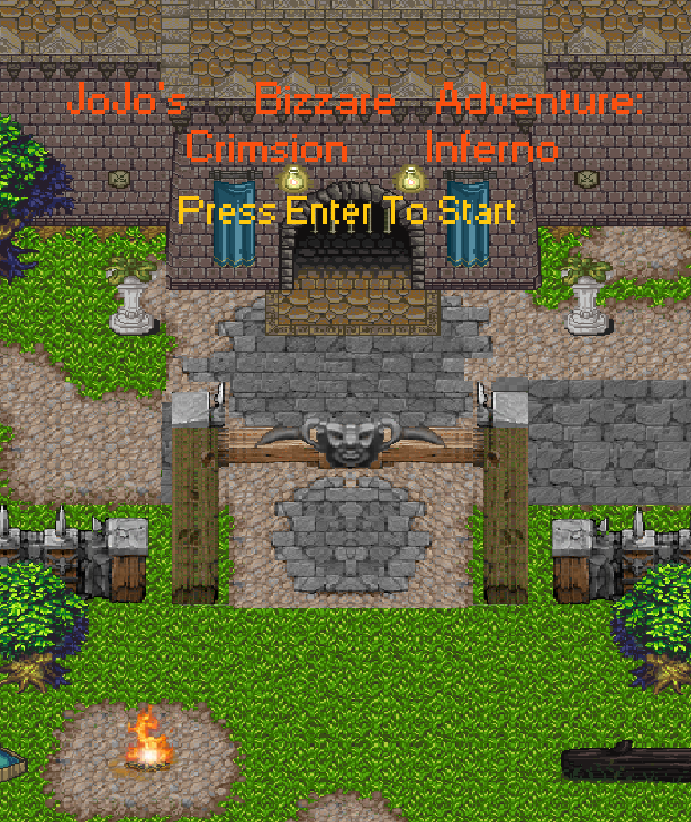
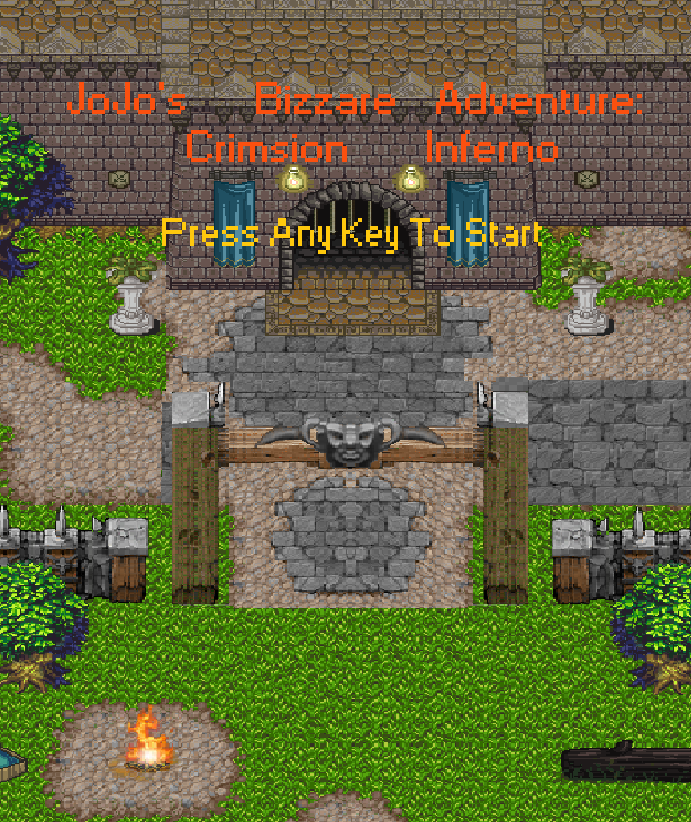
testing for anykey

Changed region(s): [[0.2127, 0.2129, 0.7902, 0.3041]]

diff --git a/src/Game.java b/src/Game.java
@@ -1,3 +1,6 @@
+
+import java.util.Scanner;
+
 public class Game
 {
     private Grid grid;
@@ -27,13 +30,11 @@ public class Game
 
     public void play() {
 
-        while (!isGameOver())
-        {
+        while (!isGameOver()) {
             grid.pause(100);
             handleKeyPress();
 //            System.out.println(grid.checkLastKeyPressed());
-            if (msElapsed % 300 == 0)
-            {
+            if (msElapsed % 300 == 0) {
 //        scrollLeft();
 //        populateRightEdge();
             }
@@ -41,6 +42,7 @@ public class Game
             msElapsed += 100;
         }
     }
+
     public void handleKeyPress() {
         int key = grid.checkLastKeyPressed();
 
@@ -61,9 +63,9 @@ public class Game
             case 40 :
                 System.out.println(40);
                 if(userRow != grid.getNumRows() - 1) {
-                        if(equalsWithNulls(grid.getImage(new Location(userRow + 1, userCol)), enemy)){
-                            attack(enemy);
-                        }
+                    if(equalsWithNulls(grid.getImage(new Location(userRow + 1, userCol)), enemy)){
+                        attack(enemy);
+                    }
 
                     grid.setImage(new Location(userRow, userCol), null);
                     userRow++;
@@ -97,10 +99,10 @@ public class Game
                 }
                 break;
 
-            case 13 :
-                System.out.println(13);
-                wannaStart = true;
-                break;
+//            case 13 :
+//                System.out.println(13);
+//                wannaStart = true;
+//                break;
             default:
 //                System.out.println("Invalid Key pressed");
         }
@@ -113,12 +115,21 @@ public class Game
 //
 //  }
 
-    public void titleScreen(){
+    public void titleScreen() {
         Grid start = new Grid(5, 5, "img//NOT_DONE.png");
         start.setTitle("Title Screen");
-        start.setImage(new Location(3, 2), "img//Start.png");
-        handleKeyPress();
+//        start.setImage(new Location(3, 2), "img//Start.png");
+        while (wannaStart) {
+            Scanner starting = new Scanner(System.in);
+            String words = starting.nextLine();
+
+            if (words.compareTo("") == 1) {
+                start.close();
+                return;
+            }
+        }
     }
+
 
     public void attack(String foe){
         battleField = new Grid(5,5,"img//BattleField.png");
@@ -167,26 +178,25 @@ public class Game
         return a.equals(b);
     }
 
-    public int getScore()
-    {
+    public int getScore() {
         return 0;
     }
-    public void updateTitle()
-    {
+
+    public void updateTitle() {
         grid.setTitle("Game:  " + getScore());
     }
-    public boolean isGameOver()
-    {
+
+    public boolean isGameOver() {
         return false;
     }
-    public static void test()
-    {
+
+    public static void test() {
         Game game = new Game();
-        game.play(); 
-        
+        game.play();
+
     }
-    public static void main(String[] args)
-    {
+
+    public static void main(String[] args) {
         test();
     }
 
